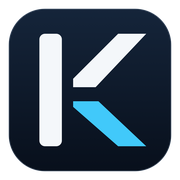
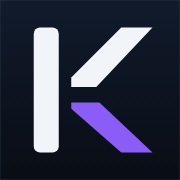
Marka rengi mor: uygulamanın vurgu rengiyle aynı
- Camgöbeği palet tek renk mora (#8B5CF6) çevrildi: CSS, küre shader'ı, uzay bulutsusu, 404
- Logo ve apple-touch-icon mor; ikon iOS için tam kare
- Hero yerleşimi, CTA metinleri ve temizlik önceki daldan korunuyor

Claude-Session: https://claude.ai/code/session_01VqRg9Gdck62uTqR7Yy5Nx6

diff --git a/styles.css b/styles.css
@@ -26,13 +26,13 @@ html.lenis, html.lenis body { height: auto; }
   --bg: #0A0D12;
   --surface: #121821;
   --line: #1F2A36;
-  /* Tek marka rengi: camgöbeği. Tüm vurgular bu üç tonun içinde kalır. */
-  --accent: #22B8F0;
-  --accent-2: #67D4FF;
-  --accent-deep: #0B7FB0;
+  /* Tek marka rengi: mor (uygulamanın vurgu rengi). Tüm vurgular bu üç tonun içinde kalır. */
+  --accent: #8B5CF6;
+  --accent-2: #A78BFA;
+  --accent-deep: #5B2FC7;
   --text: #F2F5F8;
   --muted: #9AA7B4;
-  --grad: linear-gradient(105deg, #A5E9FF 0%, #22B8F0 100%);
+  --grad: linear-gradient(105deg, #C4B5FD 0%, #8B5CF6 100%);
   --nav-h: 72px;
   --shadow: 0 30px 90px rgba(0, 0, 0, 0.48);
 }
@@ -76,7 +76,7 @@ h1, h2, h3 {
 }
 
 ::selection {
-  background: rgba(34, 184, 240, 0.32);
+  background: rgba(139, 92, 246, 0.32);
   color: #fff;
 }
 
@@ -203,7 +203,7 @@ h1, h2, h3 {
 .btn-primary {
   color: #061018;
   background-image: var(--grad);
-  box-shadow: 0 10px 36px rgba(34, 184, 240, 0.22);
+  box-shadow: 0 10px 36px rgba(139, 92, 246, 0.22);
 }
 
 .btn-primary:hover { transform: scale(1.03); }
@@ -217,7 +217,7 @@ h1, h2, h3 {
   -webkit-backdrop-filter: blur(14px);
 }
 
-.btn-ghost:hover { border-color: rgba(103, 212, 255, 0.5); }
+.btn-ghost:hover { border-color: rgba(167, 139, 250, 0.5); }
 
 .btn-lg { padding: 16px 26px; font-size: 17px; }
 
@@ -388,7 +388,7 @@ h1, h2, h3 {
   border-radius: 50%;
   background:
     radial-gradient(closest-side at 36% 32%, rgba(255, 255, 255, 0.5) 0%, rgba(255, 255, 255, 0) 24%),
-    radial-gradient(closest-side, #D4F4FF 0%, #67D4FF 18%, #22B8F0 38%, #0B7FB0 58%, #064A6E 66%, #A5E9FF 69.5%, rgba(34, 184, 240, 0.36) 72%, rgba(34, 184, 240, 0.1) 86%, transparent 100%);
+    radial-gradient(closest-side, #DDD6FE 0%, #A78BFA 18%, #8B5CF6 38%, #5B2FC7 58%, #3C1A94 66%, #C4B5FD 69.5%, rgba(139, 92, 246, 0.36) 72%, rgba(139, 92, 246, 0.1) 86%, transparent 100%);
   transition: opacity 1.1s ease;
   will-change: transform;
 }
@@ -399,7 +399,7 @@ h1, h2, h3 {
   position: absolute;
   inset: 17%;
   border-radius: 50%;
-  background: conic-gradient(from 0deg, rgba(165, 233, 255, 0) 0%, rgba(212, 244, 255, 0.5) 18%, rgba(165, 233, 255, 0) 36%, rgba(11, 127, 176, 0.55) 62%, rgba(165, 233, 255, 0) 80%);
+  background: conic-gradient(from 0deg, rgba(196, 181, 253, 0) 0%, rgba(221, 214, 254, 0.5) 18%, rgba(196, 181, 253, 0) 36%, rgba(91, 47, 199, 0.55) 62%, rgba(196, 181, 253, 0) 80%);
   filter: blur(12px);
   animation: ai-spin 16s linear infinite;
 }
@@ -426,10 +426,10 @@ h1, h2, h3 {
   padding: 11px 18px;
   text-align: left;
   border-radius: 16px;
-  border: 1px solid rgba(34, 184, 240, 0.45);
-  background: rgba(34, 184, 240, 0.1);
-  box-shadow: 0 0 28px rgba(34, 184, 240, 0.16);
-  color: #E3F6FF;
+  border: 1px solid rgba(139, 92, 246, 0.45);
+  background: rgba(139, 92, 246, 0.1);
+  box-shadow: 0 0 28px rgba(139, 92, 246, 0.16);
+  color: #EDE9FE;
   font-size: clamp(0.98rem, 1.5vw, 1.12rem);
   line-height: 1.45;
   letter-spacing: -0.012em;
@@ -453,8 +453,8 @@ h1, h2, h3 {
   top: -6px;
   width: 10px;
   height: 10px;
-  background: #04121b;
-  border: 1px solid rgba(34, 184, 240, 0.45);
+  background: #0f0820;
+  border: 1px solid rgba(139, 92, 246, 0.45);
   border-right: 0;
   border-bottom: 0;
   transform: translateX(-50%) rotate(45deg);
@@ -527,9 +527,9 @@ h1, h2, h3 {
   transform: translateX(-50%);
   padding: 12px 12px 10px;
   border-radius: 24px;
-  border: 1px solid rgba(34, 184, 240, 0.28);
+  border: 1px solid rgba(139, 92, 246, 0.28);
   background: rgba(6, 4, 14, 0.94);
-  box-shadow: 0 18px 50px rgba(0, 0, 0, 0.7), 0 0 40px rgba(34, 184, 240, 0.14);
+  box-shadow: 0 18px 50px rgba(0, 0, 0, 0.7), 0 0 40px rgba(139, 92, 246, 0.14);
   -webkit-backdrop-filter: blur(10px);
   backdrop-filter: blur(10px);
   text-align: center;
@@ -542,15 +542,15 @@ h1, h2, h3 {
   gap: 8px;
   padding: 5px 5px 5px 18px;
   border-radius: 999px;
-  border: 1px solid rgba(34, 184, 240, 0.5);
+  border: 1px solid rgba(139, 92, 246, 0.5);
   background: rgba(0, 0, 0, 0.7);
-  box-shadow: 0 0 26px rgba(34, 184, 240, 0.18);
+  box-shadow: 0 0 26px rgba(139, 92, 246, 0.18);
   transition: border-color 0.25s ease, box-shadow 0.25s ease;
 }
 
 .ai-form:focus-within {
   border-color: var(--accent-2);
-  box-shadow: 0 0 32px rgba(34, 184, 240, 0.32);
+  box-shadow: 0 0 32px rgba(139, 92, 246, 0.32);
 }
 
 .ai-form input {
@@ -564,7 +564,7 @@ h1, h2, h3 {
   padding: 9px 0;
 }
 
-.ai-form input::placeholder { color: #6E8494; }
+.ai-form input::placeholder { color: #77718D; }
 
 .ai-form button {
   flex: none;
@@ -593,19 +593,19 @@ h1, h2, h3 {
 .ai-suggest button {
   padding: 7px 13px;
   border-radius: 999px;
-  border: 1px solid rgba(34, 184, 240, 0.35);
-  background: rgba(34, 184, 240, 0.08);
-  color: #CDEFFF;
+  border: 1px solid rgba(139, 92, 246, 0.35);
+  background: rgba(139, 92, 246, 0.08);
+  color: #DDD6FE;
   font-size: 13px;
   cursor: pointer;
   transition: background 0.25s ease, border-color 0.25s ease;
 }
 
-.ai-suggest button:hover { background: rgba(34, 184, 240, 0.2); border-color: rgba(103, 212, 255, 0.6); }
+.ai-suggest button:hover { background: rgba(139, 92, 246, 0.2); border-color: rgba(167, 139, 250, 0.6); }
 
 .ai-demo {
   margin-top: 10px;
-  color: #7F8E9B;
+  color: #7d7893;
   font-size: 12px;
   letter-spacing: 0.01em;
 }
@@ -660,7 +660,7 @@ h1, h2, h3 {
   color: #B4C0CB;
 }
 
-.hero .btn-primary { box-shadow: 0 10px 36px rgba(34, 184, 240, 0.3); }
+.hero .btn-primary { box-shadow: 0 10px 36px rgba(139, 92, 246, 0.3); }
 .hero .btn-ghost { background: rgba(0, 0, 0, 0.5); }
 
 .hero-actions {
@@ -719,7 +719,7 @@ h1, h2, h3 {
   right: 8%;
   bottom: -10%;
   height: 38%;
-  background: radial-gradient(ellipse, rgba(34, 184, 240, 0.2), transparent 68%);
+  background: radial-gradient(ellipse, rgba(139, 92, 246, 0.2), transparent 68%);
   filter: blur(12px);
   pointer-events: none;
 }
@@ -913,14 +913,14 @@ h1, h2, h3 {
   content: "";
   position: absolute;
   inset: 0;
-  background: radial-gradient(420px 180px at 12% 0%, rgba(34, 184, 240, 0.09), transparent 60%);
+  background: radial-gradient(420px 180px at 12% 0%, rgba(139, 92, 246, 0.09), transparent 60%);
   opacity: 0;
   transition: opacity 0.4s ease;
   pointer-events: none;
 }
 
 .bento-card:hover::before { opacity: 1; }
-.bento-card:hover { border-color: rgba(34, 184, 240, 0.35); }
+.bento-card:hover { border-color: rgba(139, 92, 246, 0.35); }
 
 .icon {
   width: 44px;
@@ -929,8 +929,8 @@ h1, h2, h3 {
   place-items: center;
   border-radius: 12px;
   color: var(--accent-2);
-  background: rgba(34, 184, 240, 0.08);
-  border: 1px solid rgba(34, 184, 240, 0.16);
+  background: rgba(139, 92, 246, 0.08);
+  border: 1px solid rgba(139, 92, 246, 0.16);
 }
 
 .icon svg {
@@ -1018,7 +1018,7 @@ details[open] .chev { transform: rotate(180deg); }
   top: 22%;
   left: 50%;
   transform: translateX(-50%);
-  background: radial-gradient(ellipse, rgba(34, 184, 240, 0.22), rgba(14, 165, 233, 0.14) 42%, transparent 70%);
+  background: radial-gradient(ellipse, rgba(139, 92, 246, 0.22), rgba(124, 58, 237, 0.14) 42%, transparent 70%);
   filter: blur(8px);
   pointer-events: none;
 }

diff --git a/ai-kure.js b/ai-kure.js
@@ -1,6 +1,6 @@
 /*
  * Karevo AI küresi (hero)
- * - Ham WebGL (kütüphanesiz): sıvı/plazma gibi akan, camgöbeği tonlu parlayan küre
+ * - Ham WebGL (kütüphanesiz): sıvı/plazma gibi akan, mor tonlu parlayan küre
  * - Küre "konuşur": altındaki balonlarda mesajlar daktilo gibi yazılır; yazı
  *   sürerken küre ses dalgası gibi büyüyüp küçülür, susunca yavaşça nefes alır
  * - Küreye tıklayınca komut yazılır, küre hazır yanıtlardan biriyle cevap verir
@@ -127,11 +127,11 @@ void main(){
   float Rw = R * (1.0 + wob);
   float dd = max(d - Rw, 0.0);
 
-  vec3 mid  = vec3(0.133, 0.722, 0.941);   // #22B8F0 (marka camgöbeği)
-  vec3 lite = vec3(0.647, 0.914, 1.000);   // #A5E9FF
-  vec3 vio  = vec3(0.043, 0.498, 0.690);   // #0B7FB0 koyu camgöbeği
-  vec3 deep = vec3(0.004, 0.050, 0.110);
-  vec3 hot  = vec3(0.930, 0.990, 1.000);
+  vec3 mid  = vec3(0.545, 0.361, 0.965);   // #8B5CF6 (marka moru)
+  vec3 lite = vec3(0.769, 0.710, 0.992);   // #C4B5FD
+  vec3 vio  = vec3(0.400, 0.180, 0.850);   // koyu doygun mor
+  vec3 deep = vec3(0.050, 0.010, 0.160);
+  vec3 hot  = vec3(0.965, 0.950, 1.000);
 
   // Dış ışıma
   float g = exp(-dd * 4.0) * 0.50 * (0.75 + 0.25 * uBreath + 0.55 * uAmp + 0.25 * uHover);
@@ -163,7 +163,7 @@ void main(){
     float v = 1.0 - abs(2.0 * f - 1.0);
 #endif
 
-    // Koyu camgöbeğinden #22B8F0'a; yalnızca en parlak yerlerde açık ton
+    // Koyu doygun mordan #8B5CF6'ya; yalnızca en parlak yerlerde açık ton
     vec3 c = mix(deep, vio, smoothstep(0.05, 0.42, f));
     c = mix(c, mid, smoothstep(0.35, 0.78, f));
     c = mix(c, lite, smoothstep(0.80, 1.0, f) * 0.55);
@@ -172,9 +172,8 @@ void main(){
     c += hot * pow(v, 26.0) * (0.30 + 0.6 * uAmp);
 
     float fres = pow(1.0 - n.z, 2.2);
-    c += mid * fres * (0.85 + 0.6 * uAmp) + lite * pow(1.0 - n.z, 4.5) * 0.4;
-    // Camgöbeği mordan çok daha parlak algılanır; gövdeyi biraz karart
-    c *= (0.55 + 0.6 * n.z) * 0.8;
+    c += mid * fres * (1.1 + 0.6 * uAmp) + lite * pow(1.0 - n.z, 4.5) * 0.45;
+    c *= 0.55 + 0.6 * n.z;
     c += mid * pow(n.z, 5.0) * 0.18 * (1.0 + 2.0 * uAmp);
 
     vec3 L = normalize(vec3(-0.45 + uMouse.x * 0.3, 0.55 + uMouse.y * 0.3, 0.75));

diff --git a/404.html b/404.html
@@ -11,14 +11,14 @@
   <style>
     @font-face { font-family: Geist; font-weight: 100 900; font-display: swap; src: url("/fonts/geist-5.3.0-latin-wght.woff2") format("woff2"); }
     @font-face { font-family: Geist; font-weight: 100 900; font-display: swap; src: url("/fonts/geist-5.3.0-latin-ext-wght.woff2") format("woff2"); unicode-range: U+0100-02BA; }
-    :root { --bg: #0A0D12; --text: #F2F5F8; --muted: #9AA7B4; --grad: linear-gradient(105deg, #A5E9FF 0%, #22B8F0 100%); }
+    :root { --bg: #0A0D12; --text: #F2F5F8; --muted: #9AA7B4; --grad: linear-gradient(105deg, #C4B5FD 0%, #8B5CF6 100%); }
     * { box-sizing: border-box; }
-    body { margin: 0; min-height: 100vh; min-height: 100svh; display: grid; place-items: center; padding: 24px; background: var(--bg) radial-gradient(ellipse 60% 40% at 50% 30%, rgba(34, 184, 240, 0.16), transparent 70%); color: var(--text); font-family: Geist, ui-sans-serif, system-ui, sans-serif; text-align: center; }
+    body { margin: 0; min-height: 100vh; min-height: 100svh; display: grid; place-items: center; padding: 24px; background: var(--bg) radial-gradient(ellipse 60% 40% at 50% 30%, rgba(139, 92, 246, 0.16), transparent 70%); color: var(--text); font-family: Geist, ui-sans-serif, system-ui, sans-serif; text-align: center; }
     .code { margin: 0; font-size: clamp(5rem, 18vw, 10rem); font-weight: 600; letter-spacing: -0.06em; line-height: 1; background: var(--grad); -webkit-background-clip: text; background-clip: text; color: transparent; }
     h1 { margin: 12px 0 0; font-size: clamp(1.5rem, 4vw, 2.2rem); font-weight: 600; letter-spacing: -0.04em; }
     p { margin: 12px 0 0; color: var(--muted); }
     a { display: inline-flex; margin-top: 28px; padding: 14px 22px; border-radius: 999px; background: var(--grad); color: #061018; font-weight: 600; text-decoration: none; }
-    a:focus-visible { outline: 2px solid #67D4FF; outline-offset: 3px; }
+    a:focus-visible { outline: 2px solid #A78BFA; outline-offset: 3px; }
   </style>
 </head>
 <body>

diff --git a/space.js b/space.js
@@ -88,11 +88,11 @@
         let a = Math.max(0, n1 - 0.36) * 3.4 * (0.3 + band * 1.5) * keep;
         let b = Math.max(0, n2 - 0.44) * 3.0 * keep * (0.4 + band * 1.1);
         const i = (y * nw + x) * 4;
-        // Tek renk ailesi: derin camgöbeği (a) + parlak camgöbeği (b) + soğuk gri toz
+        // Tek renk ailesi: derin mor (a) + açık lavanta (b) + soluk mor-gri toz
         const dust = Math.max(0, fbm(u * 4 + 90, v * 4 + 30) - 0.5) * band * keep * 3.0;
-        let R = 14 * a + 30 * b + 120 * dust;
-        let Gc = 92 * a + 170 * b + 135 * dust;
-        let B = 175 * a + 240 * b + 180 * dust;
+        let R = 120 * a + 150 * b + 140 * dust;
+        let Gc = 50 * a + 120 * b + 125 * dust;
+        let B = 225 * a + 245 * b + 175 * dust;
         const lum = Math.min(1, a * 0.9 + b * 0.8 + dust * 0.6);
         img.data[i] = Math.min(255, R);
         img.data[i + 1] = Math.min(255, Gc);
